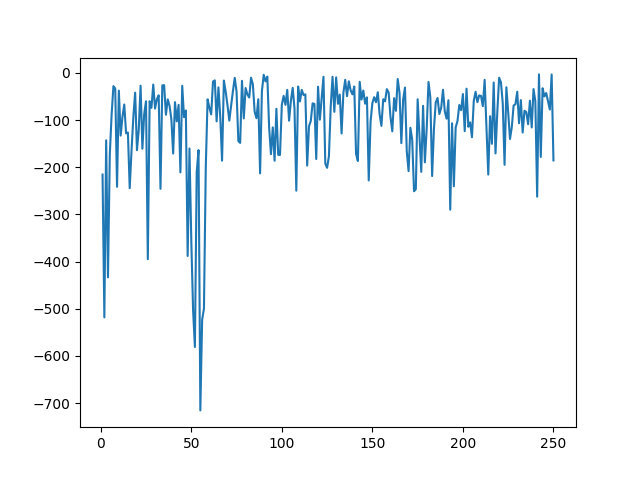
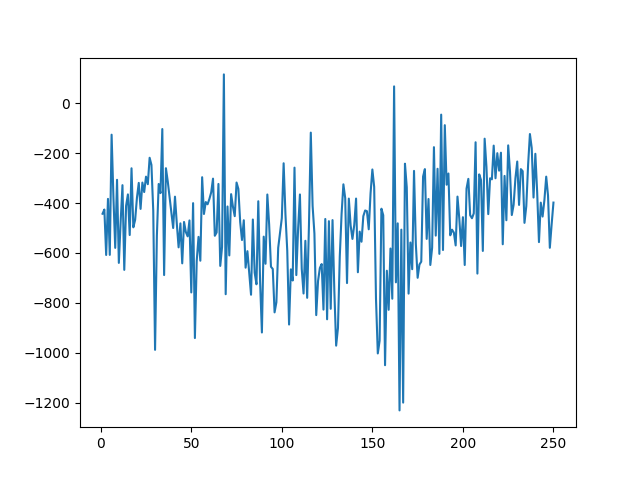
changed env 1 to 4

diff --git a/Tryhard/gym_envs/ur5e_env/__init__.py b/Tryhard/gym_envs/ur5e_env/__init__.py
@@ -17,14 +17,14 @@ register(
         'obs_type' : 1,
         'reward_type' : 1,
         'action_type' : 1,
-        'joint_limits' : "large",
+        'joint_limits' : "small",
         'action_min': [-1, -1, -1, -1, -1, -1],
         'action_max': [1, 1, 1, 1, 1, 1],
         'alpha_reward': 0.1,
         'reward_coeff': 1,
         'action_scale': 1,
         'eps' : 0.1,
-        'sim_rep' : 1
+        'sim_rep' : 5
         },
     )
 
@@ -41,14 +41,14 @@ register(
         'obs_type' : 5,
         'reward_type' : 1,
         'action_type' : 1,
-        'joint_limits' : "large",
+        'joint_limits' : "small",
         'action_min': [-1, -1, -1, -1, -1, -1],
         'action_max': [1, 1, 1, 1, 1, 1],
         'alpha_reward': 0.1,
         'reward_coeff': 1,
         'action_scale': 1,
         'eps' : 0.1,
-        'sim_rep' : 1
+        'sim_rep' : 5
         }
     )
 
@@ -65,14 +65,14 @@ register(
         'obs_type' : 1,
         'reward_type' : 13,
         'action_type' : 1,
-        'joint_limits' : "large",
+        'joint_limits' : "small",
         'action_min': [-1, -1, -1, -1, -1, -1],
         'action_max': [1, 1, 1, 1, 1, 1],
         'alpha_reward': 0.1,
         'reward_coeff': 1,
         'action_scale': 1,
         'eps' : 0.1,
-        'sim_rep' : 1
+        'sim_rep' : 5
         }
     )
 
@@ -89,14 +89,14 @@ register(
         'obs_type' : 5,
         'reward_type' : 13,
         'action_type' : 1,
-        'joint_limits' : "large",
+        'joint_limits' : "small",
         'action_min': [-1, -1, -1, -1, -1, -1],
         'action_max': [1, 1, 1, 1, 1, 1],
         'alpha_reward': 0.1,
         'reward_coeff': 1,
         'action_scale': 1,
         'eps' : 0.1,
-        'sim_rep' : 1
+        'sim_rep' : 5
         }
     )
 

diff --git a/Tryhard/enjoy.py b/Tryhard/enjoy.py
@@ -2,14 +2,27 @@ import gym
 import ur5e_env
 from stable_baselines3 import HER, DDPG, DQN, SAC, TD3
 import time
-env = gym.make("ur5e_reacher-v13")
+import os
+from stable_baselines3.common.vec_env import DummyVecEnv, VecEnvWrapper, VecVideoRecorder
+env = gym.make("ur5e_reacher-v2")
+model = HER.load('./logs/her/ur5e_reacher-v2_3/rl_model_390000_steps', env=env)
+# video_length= 2000
+# video_folder = "."
+# env = DummyVecEnv(env)
+# env = VecVideoRecorder(
+#     env,
+#     video_folder,
+#     record_video_trigger=lambda x: x == 0,
+#     video_length=video_length,
+#     name_prefix="test_video"
+# )
 #model = HER.load('./logs/Results/rl_model_50000_steps-v16', env=env)
-model = HER.load('./logs/her/ur5e_reacher-v13_2/rl_model_250000_steps', env=env)
+
 env.render()
 for episode in range(10):
     obs=env.reset()
     episodic_reward = 0
-    for timestep in range(1000):
+    for timestep in range(2000):
         #time.sleep(1/90)
         action, _ = model.predict(obs)
         obs, reward, done, info = env.step(action)
@@ -18,12 +31,14 @@ for episode in range(10):
             print("Within epsilon")
         if timestep%100==0:
             print(" Reward at timestep {} is {}".format(str(timestep),str(reward)))
+            print("action as delta-action: ", action)
         if info["distance"]<0.1:
             print(timestep)
             print("within epsilon: Desired goal is achieved. Displaying info at last step:")
             print("distance:", info["distance"])
             print("goal_pos:", info["goal_pos"])
             print("endeffector_pos:", info["endeffector_pos"])
+            
 
             time.sleep(4)
             obs = env.reset()

diff --git a/Tryhard/gym_envs/ur5e_env/envs/ur5e_env.py b/Tryhard/gym_envs/ur5e_env/envs/ur5e_env.py
@@ -24,8 +24,10 @@ RESET_VALUES = [
     -0.07158577010132992,
     0]
 # Global Variables to use instead of __init__
-MIN_GOAL_COORDS = np.array([-0.45, -0.45, 0.45])
-MAX_GOAL_COORDS = np.array([0.45, 0.45, 0.1])
+# MIN_GOAL_COORDS = np.array([-0.45, -0.45, 0.45])
+# MAX_GOAL_COORDS = np.array([0.45, 0.45, 0.1])
+MIN_GOAL_COORDS = np.array([-0.1, -0.1, 0.1])
+MAX_GOAL_COORDS = np.array([0.6, 0.6, 0.4])
 MIN_END_EFF_COORDS = np.array([-0.90, -0.90, 0.10])
 MAX_END_EFF_COORDS = np.array([0.90, 0.90, 0.90])
 MIN_GOAL_ORIENTATION = np.array([-np.pi, -np.pi, -np.pi])

diff --git a/Tryhard/utils/record_video.py b/Tryhard/utils/record_video.py
@@ -4,7 +4,7 @@ import ur5e_env
 
 from stable_baselines3.common.vec_env import DummyVecEnv, VecEnvWrapper, VecVideoRecorder
 
-from utils.utils import ALGOS, create_test_env, get_latest_run_id, get_saved_hyperparams
+from utils import ALGOS, create_test_env, get_latest_run_id, get_saved_hyperparams
 
 parser = argparse.ArgumentParser()
 parser.add_argument("--env", help="environment ID", type=str, default="CartPole-v1")
